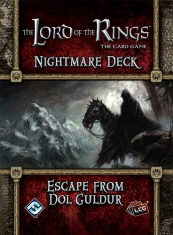
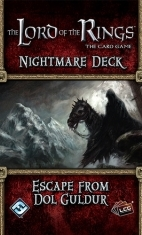
Added ProductGroup and ProductGroupViewModel classes to help organize products Fixed the dimensions of some of the product images, to allow for more consistent layout More cleanup of the Browse page layout

diff --git a/trunk/HallOfBeorn/HallOfBeorn/Services/CardService.cs b/trunk/HallOfBeorn/HallOfBeorn/Services/CardService.cs
@@ -24,6 +24,7 @@ namespace HallOfBeorn.Services
         }
 
         private readonly List<Product> products = new List<Product>();
+        private readonly List<ProductGroup> productGroups = new List<ProductGroup>();
         private readonly List<CardSet> sets = new List<CardSet>();
         private readonly List<string> setNames = new List<string>();
         private readonly Dictionary<string, Card> cards = new Dictionary<string, Card>();
@@ -123,58 +124,29 @@ namespace HallOfBeorn.Services
 
         private void LoadProducts()
         {
-            AddProduct(new CoreSetProduct());
-            
-            AddProduct(new TheHuntForGollumProduct());
-            AddProduct(new ConflictAtTheCarrokProduct());
-            AddProduct(new AJourneyToRhosgobelProduct());
-            AddProduct(new TheHillsOfEmynMuilProduct());
-            AddProduct(new TheDeadMarshesProduct());
-            AddProduct(new ReturnToMirkwoodProduct());
+            productGroups.Add(new ShadowsOfMirkwoodProductGroup());
+            productGroups.Add(new TheDwarrowdelfProductGroup());
+            productGroups.Add(new AgainstTheShadowProductGroup());
+            productGroups.Add(new TheRingMakerProductGroup());
 
-            AddProduct(new KhazadDumProduct());
+            productGroups.Add(new TheHobbitSagaProductGroup());
+            productGroups.Add(new TheLordOfTheRingsSagaProductGroup());
 
-            AddProduct(new TheRedhornGateProduct());
-            AddProduct(new RoadToRivendellProduct());
-            AddProduct(new TheWatcherInTheWaterProduct());
-            AddProduct(new TheLongDarkProduct());
-            AddProduct(new FoundationsOfStoneProduct());
-            AddProduct(new ShadowAndFlameProduct());
+            productGroups.Add(new GenConDeckProductGroup());
+            productGroups.Add(new NightmareDeckProductGroup());
 
-            AddProduct(new HeirsOfNumenorProduct());
+            foreach (var productGroup in productGroups)
+            {
+                if (productGroup.MainProduct != null)
+                {
+                    AddProduct(productGroup.MainProduct);
+                }
 
-            AddProduct(new TheStewardsFearProduct());
-            AddProduct(new TheDruadanForestProduct());
-            AddProduct(new EncounterAtAmonDinProduct());
-            AddProduct(new AssaultOnOsgiliathProduct());
-            AddProduct(new TheBloodOfGondorProduct());
-            AddProduct(new TheMorgulValeProduct());
-
-            AddProduct(new TheVoiceOfIsengardProduct());
-            AddProduct(new TheDunlandTrapProduct());
-
-            AddProduct(new TheHobbitOverHillAndUnderHillProduct());
-            AddProduct(new TheHobbitOnTheDoorstepProduct());
-
-            AddProduct(new TheBlackRidersProduct());
-
-            AddProduct(new TheMassingAtOsgiliathProduct());
-            AddProduct(new TheBattleOfLakeTownProduct());
-            AddProduct(new TheStoneOfErechProduct());
-
-            AddProduct(new PassageThroughMirkwoodNightmareProduct());
-            AddProduct(new JourneyAlongTheAnduinNightmareProduct());
-            AddProduct(new EscapeFromDolGuldurNightmareProduct());
-
-            AddProduct(new TheHuntForGollumNightmareProduct());
-            AddProduct(new ConflictAtTheCarrockNightmareProduct());
-            AddProduct(new AJourneyToRhosgobelNightmareProduct());
-            AddProduct(new TheHillsOfEmynMuilNightmareProduct());
-            AddProduct(new TheDeadMarshesNightmareProduct());
-            AddProduct(new ReturnToMirkwoodNightmareProduct());
-
-            AddProduct(new KhazadDumNightmareProduct());
-            AddProduct(new TheHobbitOverHillAndUnderHillNightmareProduct());
+                foreach (var product in productGroup.ChildProducts)
+                {
+                    AddProduct(product);
+                }
+            }
 
             /*
             AddSet(new CoreSet());
@@ -1015,6 +987,11 @@ namespace HallOfBeorn.Services
         public IEnumerable<Product> Products()
         {
             return products;
+        }
+
+        public IEnumerable<ProductGroup> ProductGroups()
+        {
+            return productGroups;
         }
     }
 }

diff --git a/trunk/HallOfBeorn/HallOfBeorn/Controllers/CardsController.cs b/trunk/HallOfBeorn/HallOfBeorn/Controllers/CardsController.cs
@@ -217,9 +217,9 @@ namespace HallOfBeorn.Controllers
         {
             var model = new BrowseViewModel();
 
-            foreach (var product in _cardService.Products())
+            foreach (var productGroup in _cardService.ProductGroups())
             {
-                model.Products.Add(new ProductViewModel(product));
+                model.ProductGroups.Add(new ProductGroupViewModel(productGroup));
             }
 
             return View(model);

diff --git a/trunk/HallOfBeorn/HallOfBeorn/Models/Products/KhazadDumNightmareProduct.cs b/trunk/HallOfBeorn/HallOfBeorn/Models/Products/KhazadDumNightmareProduct.cs
@@ -8,7 +8,7 @@ namespace HallOfBeorn.Models.Products
     public class KhazadDumNightmareProduct : Product
     {
         public KhazadDumNightmareProduct()
-            : base("Khazad-dûm Nightmare Decks", "MEN10", ImageType.Jpg)
+            : base("Khazad-dûm Nightmare Decks", "MEN10", ImageType.Png)
         {
             CardSets.Add(new Sets.IntoThePitNightmare());
             CardSets.Add(new Sets.TheSeventhLevelNightmare());

diff --git a/trunk/HallOfBeorn/HallOfBeorn/Models/BrowseViewModel.cs b/trunk/HallOfBeorn/HallOfBeorn/Models/BrowseViewModel.cs
@@ -9,9 +9,9 @@ namespace HallOfBeorn.Models
     {
         public BrowseViewModel()
         {
-            Products = new List<ProductViewModel>();
+            ProductGroups = new List<ProductGroupViewModel>();
         }
 
-        public List<ProductViewModel> Products { get; set; }
+        public List<ProductGroupViewModel> ProductGroups { get; private set; }
     }
 }
